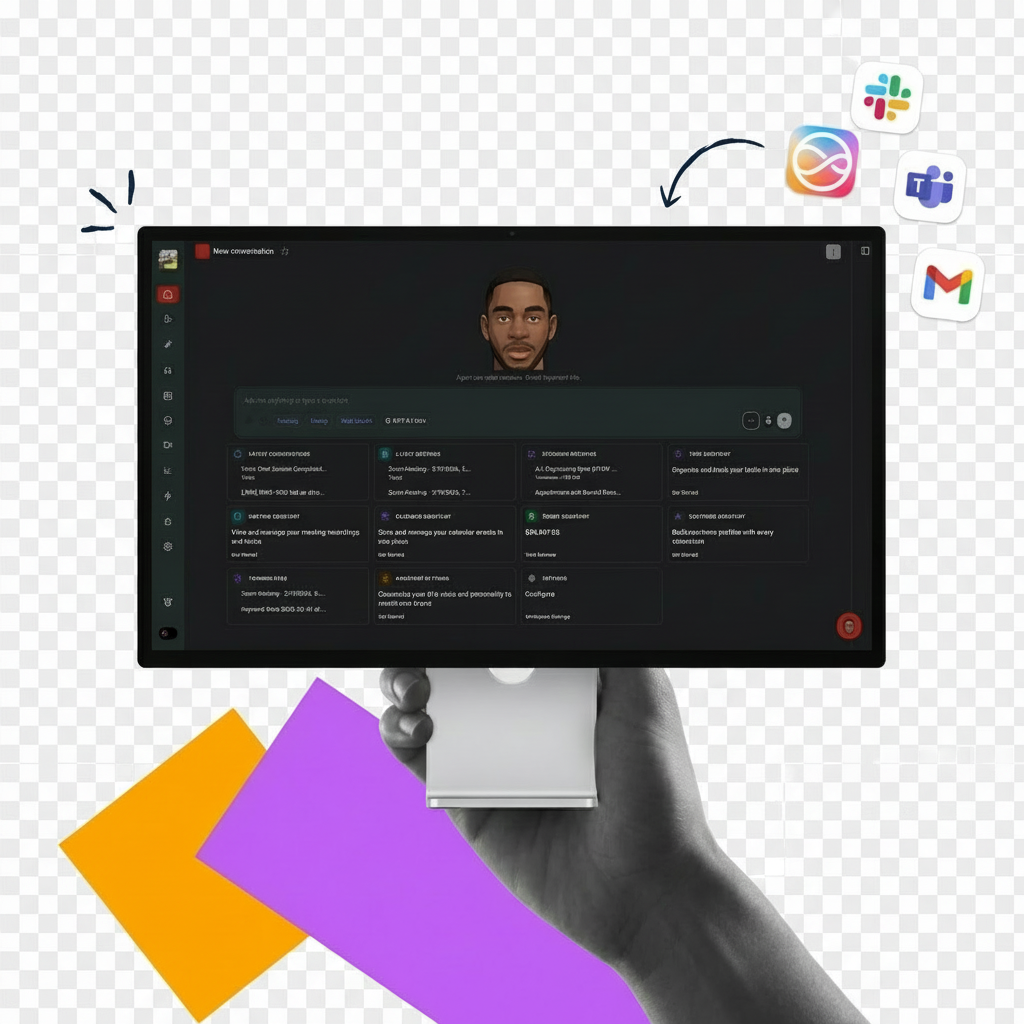
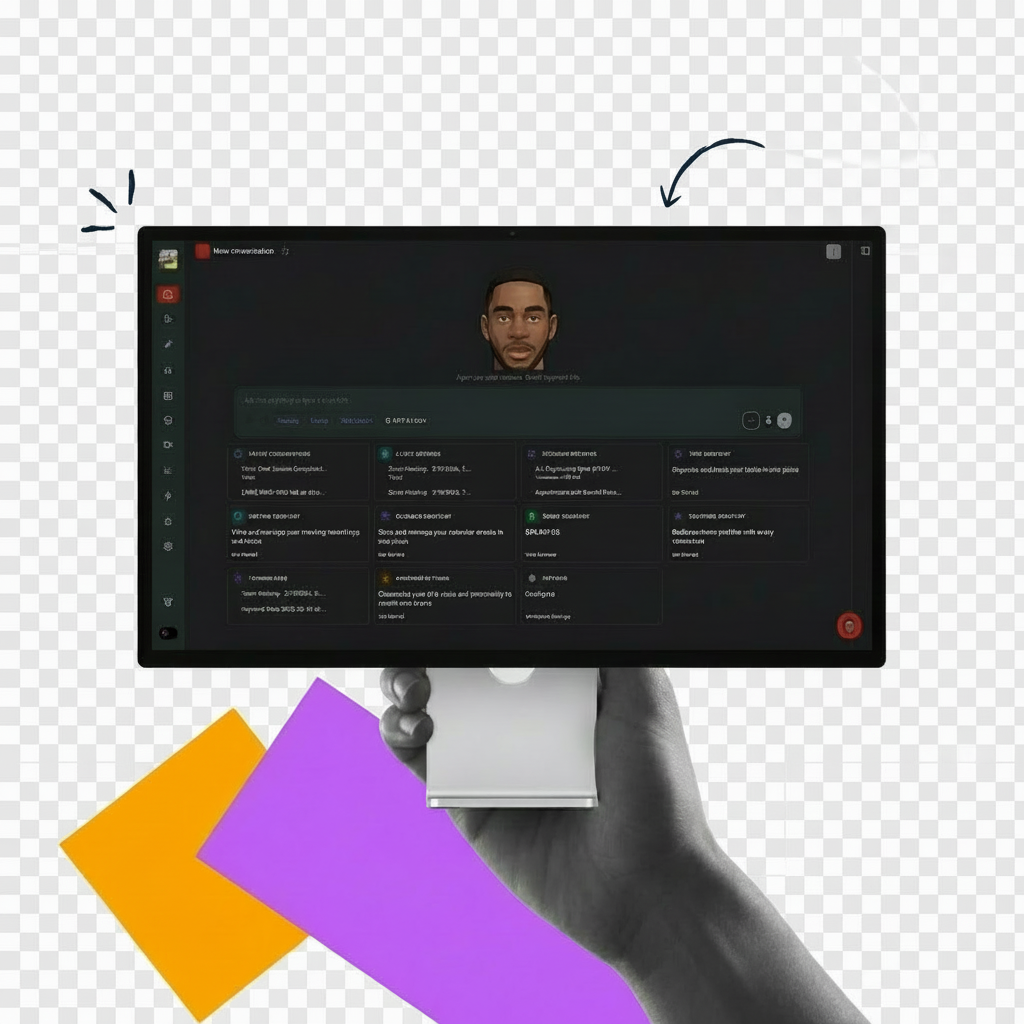
Changes

diff --git a/src/pages/Index.tsx b/src/pages/Index.tsx
@@ -1,5 +1,8 @@
 import { Helmet } from "react-helmet-async";
 import googleLogo from "@/assets/logos/google.png";
+import slackLogo from "@/assets/logos/slack.png";
+import outlookLogo from "@/assets/logos/outlook.png";
+import zapierLogo from "@/assets/logos/zapier.png";
 import heroDashboard from "@/assets/hero-app-screenshot.png";
 import { Button } from "@/components/ui/button";
 import { Play, Calendar } from "lucide-react";
@@ -116,14 +119,39 @@ const HeroSection = () => {
           {/* Right: app screenshot */}
           <div className="flex-1 w-full max-w-lg lg:max-w-none hidden sm:flex items-center justify-center">
             <div className="relative w-full">
+              {/* Floating integration icons — behind the main image */}
+              <div className="absolute top-[2%] right-[4%] z-0 flex flex-col gap-3" style={{ animation: "heroFloat1 4s ease-in-out infinite" }}>
+                <div className="w-14 h-14 bg-white rounded-2xl shadow-lg flex items-center justify-center p-1.5">
+                  <img src={slackLogo} alt="Slack" className="w-full h-full object-contain" />
+                </div>
+                <div className="w-14 h-14 bg-white rounded-2xl shadow-lg flex items-center justify-center p-2">
+                  <img src={outlookLogo} alt="Outlook" className="w-full h-full object-contain" />
+                </div>
+                <div className="w-14 h-14 bg-white rounded-2xl shadow-lg flex items-center justify-center p-2" style={{ animation: "heroFloat2 5s ease-in-out infinite" }}>
+                  <img src={zapierLogo} alt="Zapier" className="w-full h-full object-contain" />
+                </div>
+              </div>
+
+              {/* Main image on top */}
               <img
                 src={heroDashboard}
                 alt="RagAdvise dashboard — AI business assistant in action"
-                className="w-full h-auto object-contain drop-shadow-xl"
+                className="relative z-10 w-full h-auto object-contain drop-shadow-xl"
                 loading="eager"
               />
             </div>
           </div>
+
+          <style>{`
+            @keyframes heroFloat1 {
+              0%, 100% { transform: translateY(0px); }
+              50% { transform: translateY(-10px); }
+            }
+            @keyframes heroFloat2 {
+              0%, 100% { transform: translateY(0px); }
+              50% { transform: translateY(-14px); }
+            }
+          `}</style>
         </div>
       </div>
     </section>
